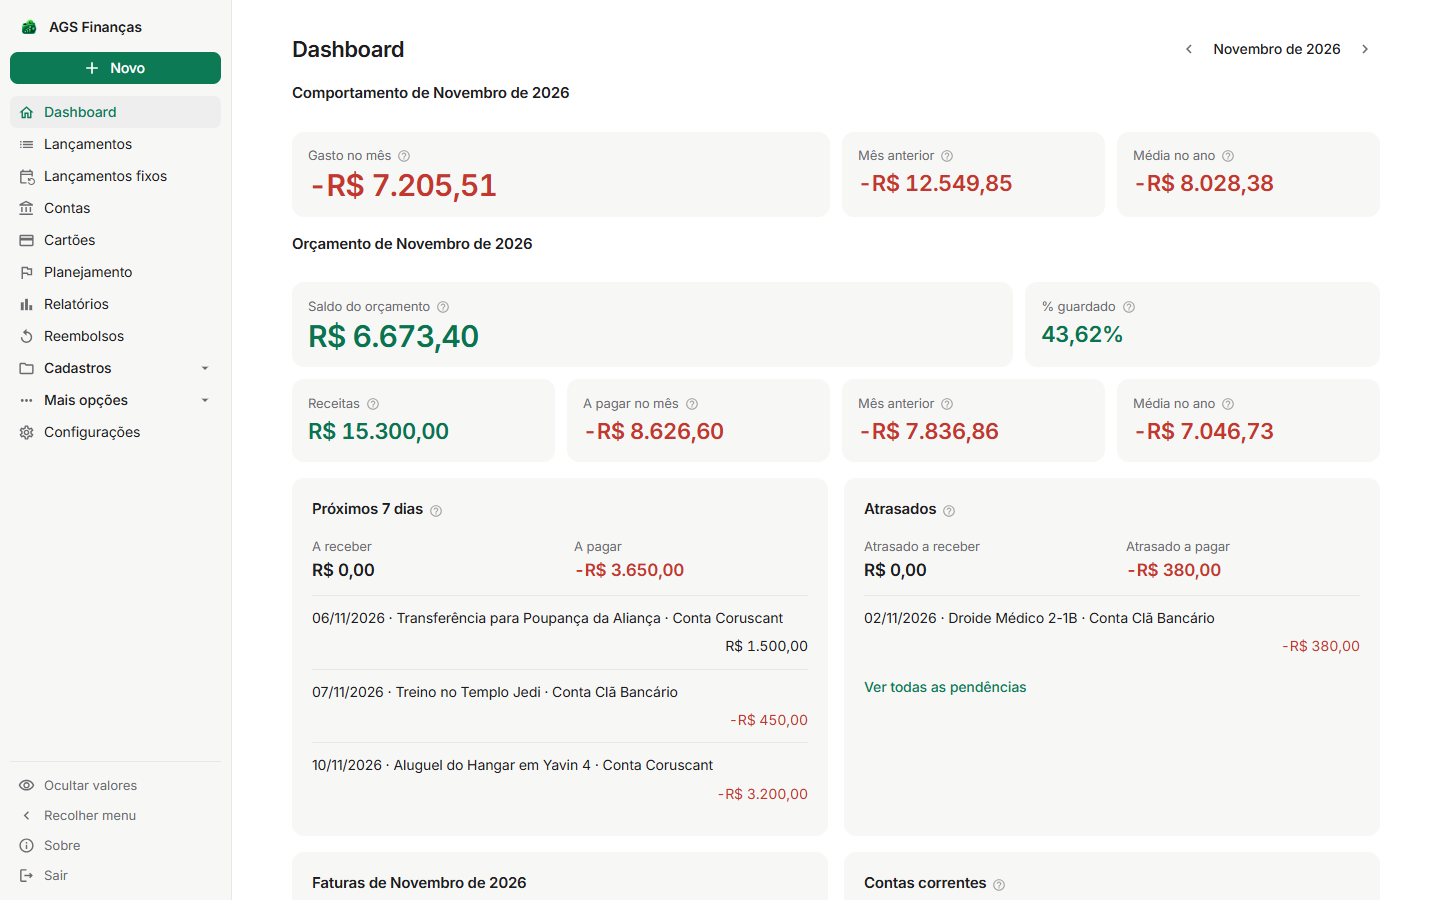
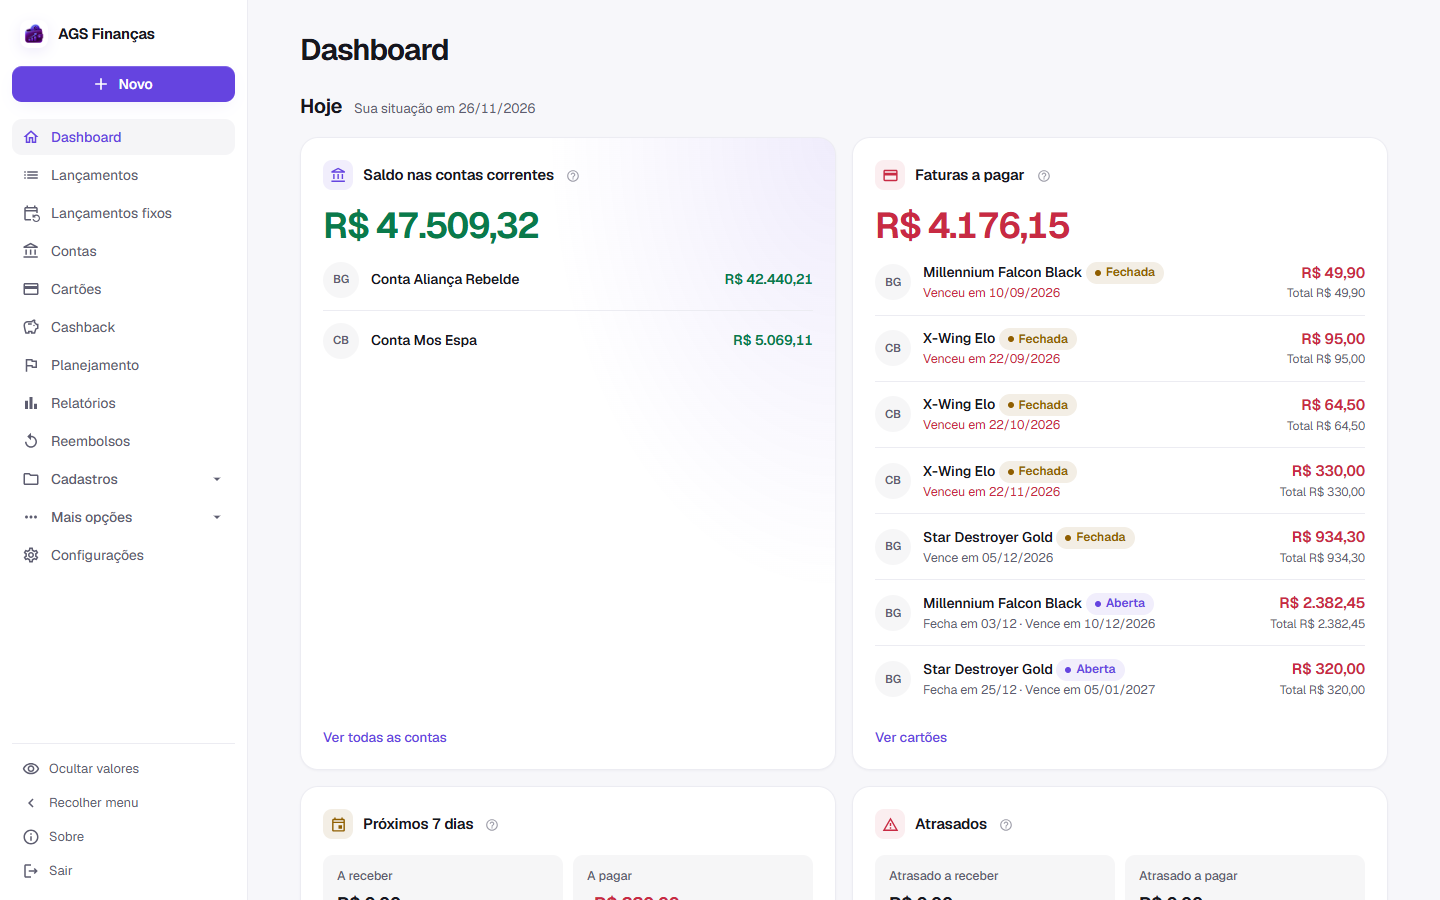
docs: refaz a galeria de telas com o cashback e a identidade roxa (#153, #154)
Prints novos no sandbox fictício a 1440x900 e 375x812, com o painel e a
janela de recebimento do cashback, a coluna Cashback da fatura, a faixa Mês
do Dashboard e o tema claro. README sem o aviso de layout antigo.

diff --git a/docs/screenshots/README.md b/docs/screenshots/README.md
@@ -4,22 +4,27 @@ Prints da aplicação com **dados fictícios** do universo Star Wars: bancos, co
 e lançamentos foram inventados só para a demonstração. Nenhum dado financeiro real aparece aqui.
 Os nomes são usados apenas como texto, sem logos ou marcas oficiais.
 
-As telas estão no tema escuro (o padrão), num computador a 1440x900, salvo quando indicado.
-Origem: [#135](https://github.com/adnerscarpelini/ags-controle-financeiro/issues/135).
+As telas estão no tema escuro (o padrão), com a identidade visual roxa da
+[#154](https://github.com/adnerscarpelini/ags-controle-financeiro/issues/154), num computador a 1440x900, salvo quando
+indicado. Origem: [#135](https://github.com/adnerscarpelini/ags-controle-financeiro/issues/135); prints refeitos após a
+#153 (cashback) e a #154.
 
 ## Dashboard
 
-Faixa Hoje com o saldo das contas correntes, as faturas a pagar, as pendências dos próximos dias e as atrasadas; faixa Mês com receitas, gasto e a pagar no mês e as categorias ([#143](https://github.com/adnerscarpelini/ags-controle-financeiro/issues/143)).
+Faixa Hoje com o saldo das contas correntes, as faturas a pagar, as pendências dos próximos dias e as atrasadas
+([#143](https://github.com/adnerscarpelini/ags-controle-financeiro/issues/143)).
 
-> A imagem abaixo ainda mostra o layout anterior à #143 (comportamento e orçamento do mês) e precisa ser regerada, assim como `dashboard-mobile.png` e `dashboard-light.png`.
+![Dashboard com a faixa Hoje: saldo nas contas correntes, faturas a pagar fechadas e abertas, próximos 7 dias e atrasados](dashboard.png)
 
-![Dashboard no layout anterior, com o comportamento e o orçamento de novembro, pendências dos próximos 7 dias e uma despesa atrasada](dashboard.png)
+Mais abaixo, a faixa Mês com seletor: receitas, gasto e a pagar no mês, despesas por categoria e receitas por origem.
+
+![Faixa Mês do Dashboard com receitas, gasto e a pagar de novembro e as despesas por categoria comparadas ao mês anterior e à média](dashboard-month.png)
 
 ## Lançamentos
 
 Receitas e despesas do mês, com situação (pago, pendente, atrasado ou cartão), categoria, conta ou cartão e totais.
 
-![Lista de lançamentos de novembro com saldo atual, receitas, despesas e balanço mensal](transactions.png)
+![Lista de lançamentos de novembro com saldo atual, receitas, despesas, balanço mensal e um cashback recebido](transactions.png)
 
 ## Lançamentos com Agrupar cartões
 
@@ -29,51 +34,65 @@ Os itens de cada cartão viram uma linha por cartão e fatura, com a soma; os to
 
 ## Lançamentos fixos
 
-Receitas, despesas e transferências recorrentes, no cartão ou na conta, com o dia de cada mês.
+Receitas e despesas recorrentes, no cartão ou na conta, com o dia de cada mês.
 
-![Lançamentos fixos com aluguel, internet, assinatura, soldo e transferência mensal](recurring-entries.png)
+![Lançamentos fixos com plano da HoloNet, soldo, aluguel do hangar e mensalidade do treinamento Jedi](recurring-entries.png)
 
 ## Contas
 
-Saldo atual e previsto de cada conta e as transferências recorrentes do mês.
+Saldo atual e previsto de cada conta, com os totais.
 
-![Contas correntes e poupança com saldos e uma transferência recorrente pendente](accounts.png)
+![Contas correntes, investimento e poupança com saldo atual e previsto](accounts.png)
 
 ## Cartões
 
-Carteira de cartões com a fatura aberta, o vencimento, o limite disponível e a fatura fechada a pagar.
+Carteira de cartões com a fatura aberta, o vencimento, o limite disponível, o percentual de cashback e a fatura fechada a
+pagar.
 
-![Cartões com fatura aberta, limite disponível e aviso da fatura fechada](cards.png)
+![Cartões com fatura aberta, cashback de 1,5% e 1%, limite disponível e aviso da fatura fechada](cards.png)
 
 ## Detalhe da fatura
 
-Compras de uma fatura Fechada, com parcela, recorrência, fechamento, vencimento e saldo restante.
+Compras de uma fatura Fechada, com parcela, a coluna Cashback, o cashback previsto, fechamento, vencimento e saldo
+restante ([#153](https://github.com/adnerscarpelini/ags-controle-financeiro/issues/153)).
 
-![Fatura fechada de novembro com compras, parcela 3 de 6 e ações de reabrir, ajustar e pagar](invoice-detail.png)
+![Fatura fechada de dezembro com compras, parcela 3 de 4, cashback de 1% por compra e ações de reabrir, ajustar e pagar](invoice-detail.png)
+
+## Cashback
+
+Painel do cashback pelo mês da fatura: previsto, a receber e recebido, uma linha por cartão e o histórico do ano
+([#153](https://github.com/adnerscarpelini/ags-controle-financeiro/issues/153)).
+
+![Painel de cashback de novembro com um cashback a receber, um recebido e o histórico recebido em 2026](cashback.png)
+
+A ação Receber, disponível com a fatura Paga, confirma a data, o valor e o destino: conta corrente ou abatimento na
+fatura Aberta.
+
+![Janela Receber cashback com data, valor previsto e destino em conta corrente](cashback-receive.png)
 
 ## Planejamento
 
 Orçamento do mês com metas por categoria, despesas pagas e previstas e o que resta ou excedeu.
 
-![Planejamento de novembro com metas por categoria e progresso](planning.png)
+![Planejamento de novembro com metas por categoria, uma categoria excedida e os totais do mês](planning.png)
 
 ## Relatórios: visão de 19 meses
 
 Receitas, despesas e saldo por mês, abertos por categoria, com previstas em itálico.
 
-![Visão de 19 meses com receitas e despesas por categoria](reports-19-months.png)
+![Visão de 19 meses com receitas, inclusive cashback, e despesas por categoria](reports-19-months.png)
 
 ## Reembolsos
 
 Despesas divididas com outras pessoas, com o percentual, o valor a receber e a situação de cada uma.
 
-![Reembolsos com um recebido e três pendentes de Han Solo, Chewbacca e Leia Organa](reimbursements.png)
+![Reembolsos de todos os meses com um recebido de Han Solo e um pendente de Chewbacca](reimbursements.png)
 
-## Nova despesa
+## Nova despesa no cartão
 
-Janela de lançamento com valor, situação, data, descrição, categoria e conta.
+Janela de lançamento com valor, data, descrição, categoria, cartão e a fatura em que a compra entra.
 
-![Janela de nova despesa preenchida sobre a tela de lançamentos](new-expense.png)
+![Janela de nova despesa no cartão preenchida, com a fatura 12/2026 Aberta selecionada](new-expense.png)
 
 ## Configurações
 

diff --git a/README.md b/README.md
@@ -1,15 +1,15 @@
 <p align="center">
-  <img src="logo.png" alt="Logo do ags-controle-financeiro: carteira verde com moeda e gráfico em alta" width="160">
+  <img src="logo.png" alt="Logo do ags-controle-financeiro: carteira roxa com moeda e gráfico em alta" width="160">
 </p>
 
 <h1 align="center">ags-controle-financeiro</h1>
 
 Aplicação web pessoal em .NET 10, ASP.NET Core e Blazor, acessada pelo computador e celular na rede local.
 
-![Dashboard com dados fictícios, ainda no layout anterior às faixas Hoje e Mês: comportamento e orçamento do mês, pendências dos próximos dias e atrasadas](docs/screenshots/dashboard.png)
+![Dashboard com dados fictícios: faixa Hoje com o saldo das contas correntes e as faturas a pagar](docs/screenshots/dashboard.png)
 
-> **[Veja a galeria de telas →](docs/screenshots/README.md)** Lançamentos, cartões, faturas, planejamento, relatórios,
-> reembolsos, celular e tema claro, todos com dados fictícios.
+> **[Veja a galeria de telas →](docs/screenshots/README.md)** Lançamentos, cartões, faturas, cashback, planejamento,
+> relatórios, reembolsos, celular e tema claro, todos com dados fictícios.
 
 O destino aprovado é **Docker Compose + PostgreSQL**, no Linux ou Windows via WSL 2.
 A aplicação roda com **Docker Compose + PostgreSQL** ([#60](https://github.com/adnerscarpelini/ags-controle-financeiro/issues/60),
